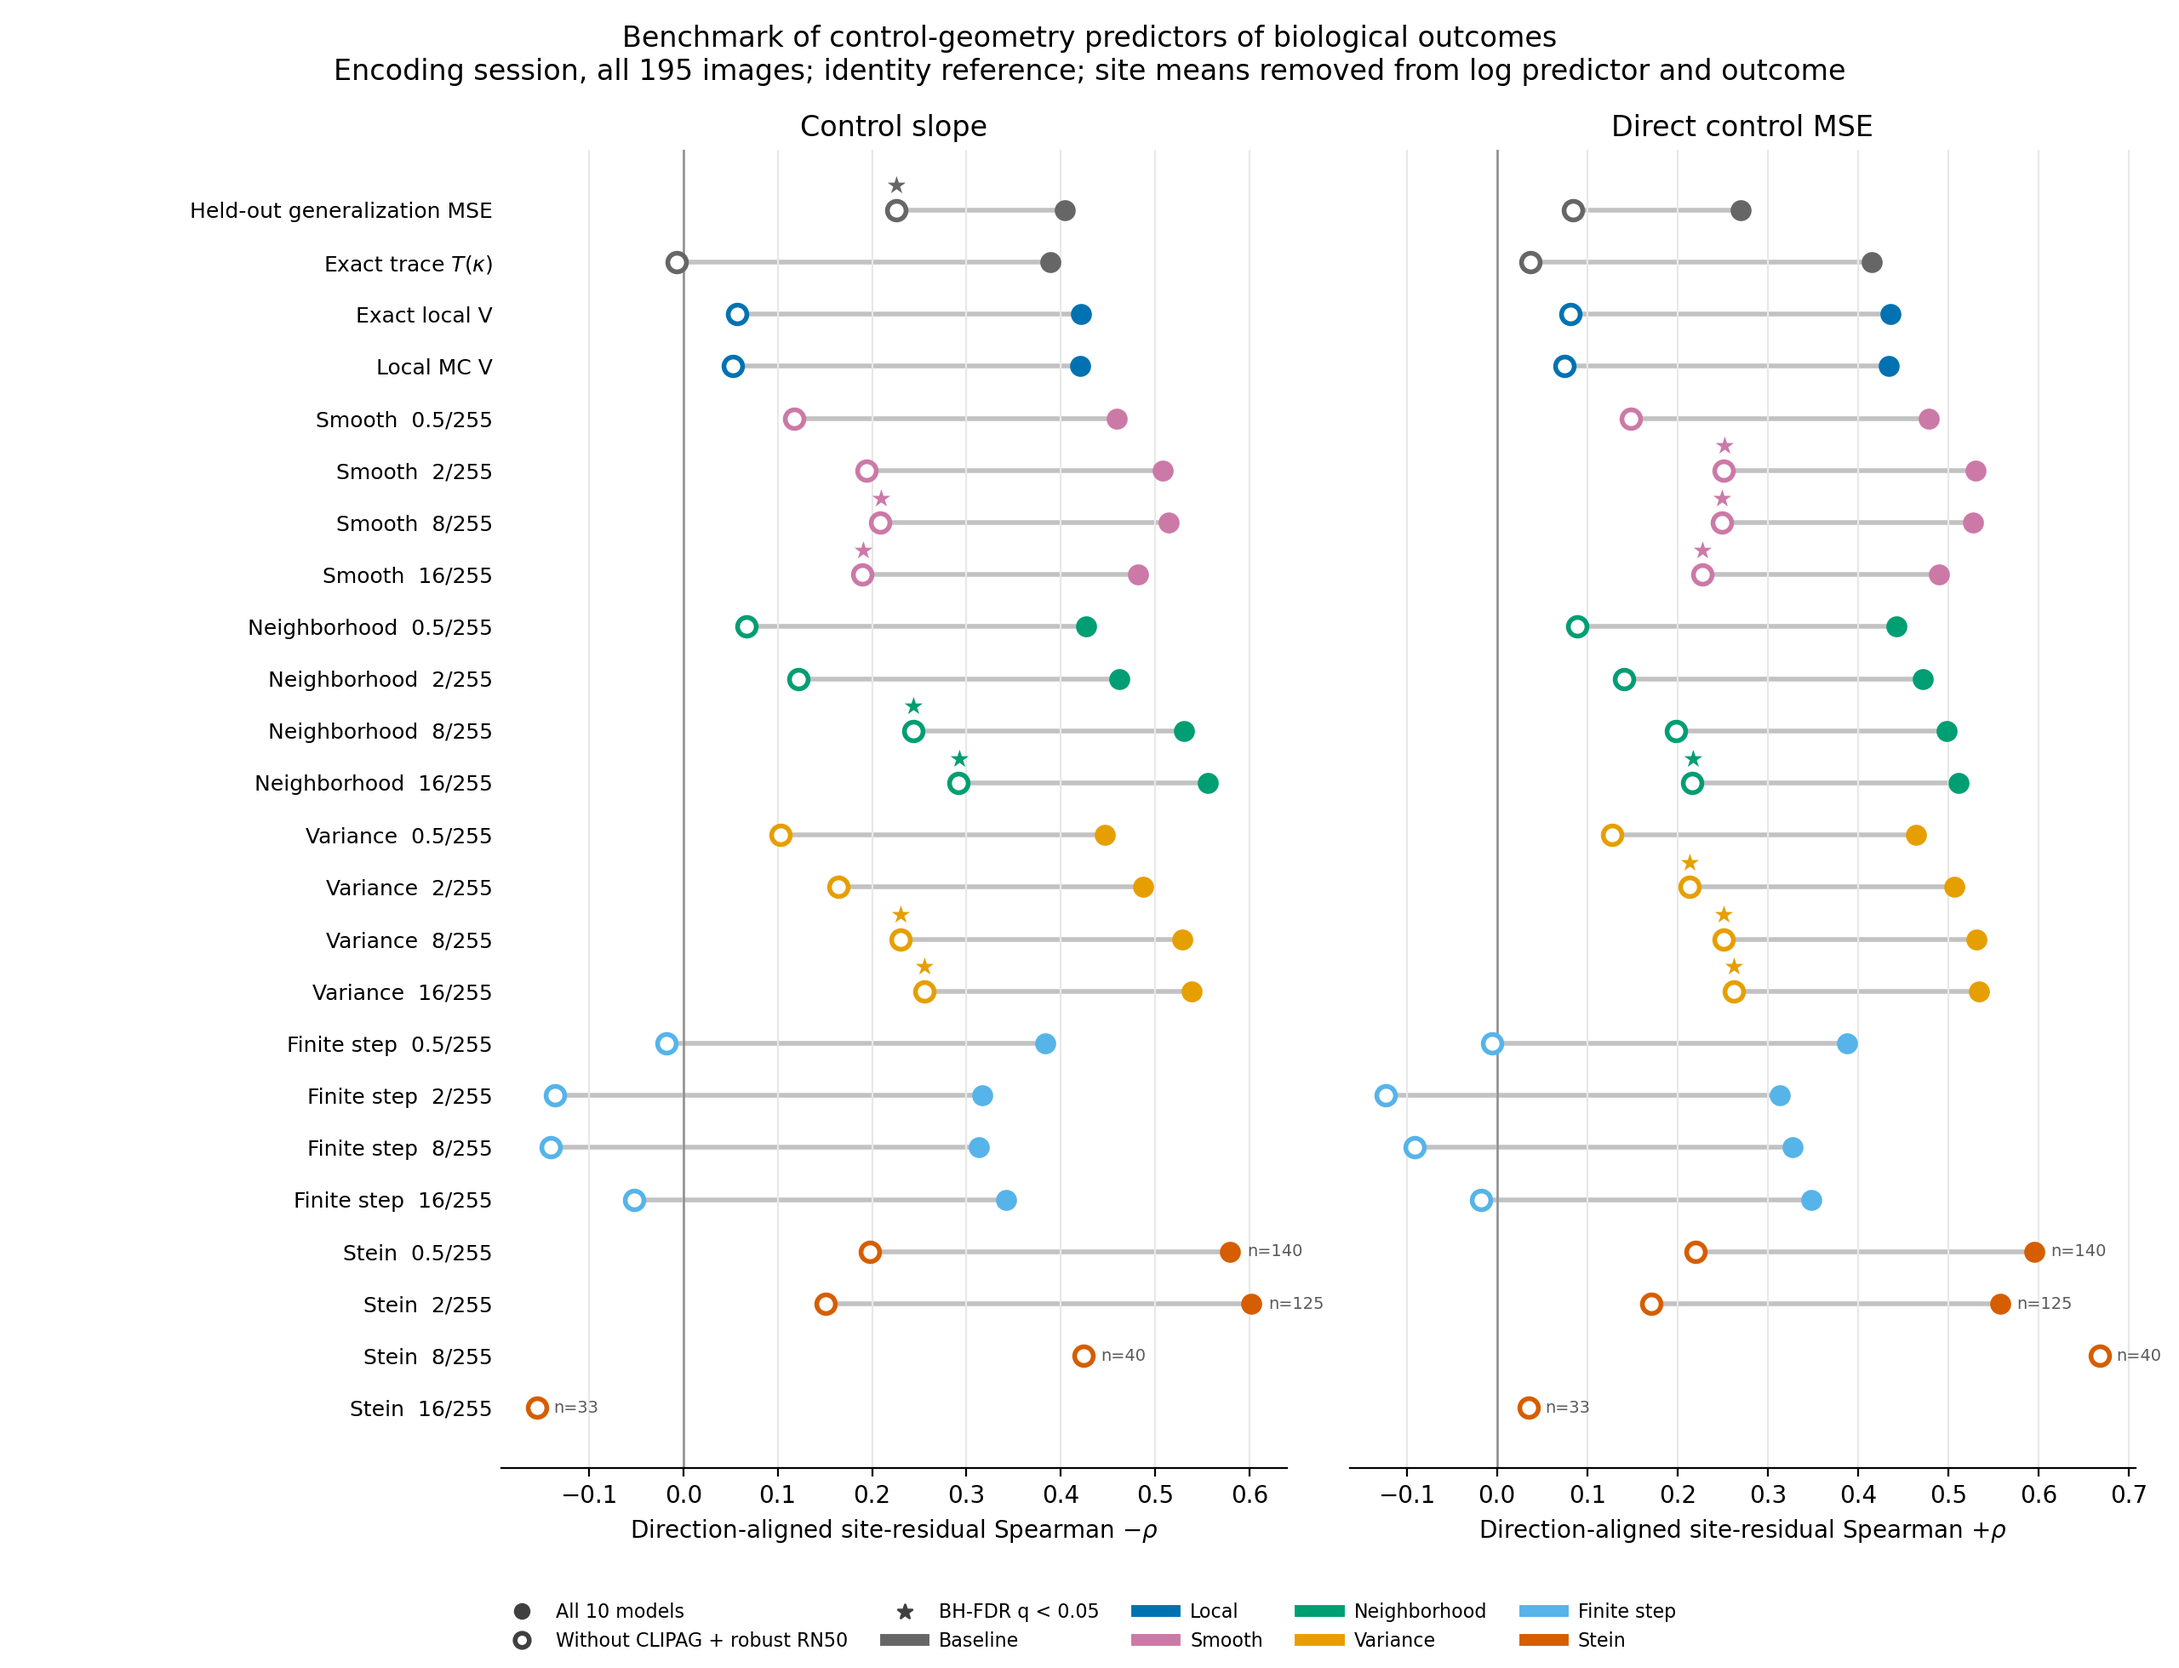
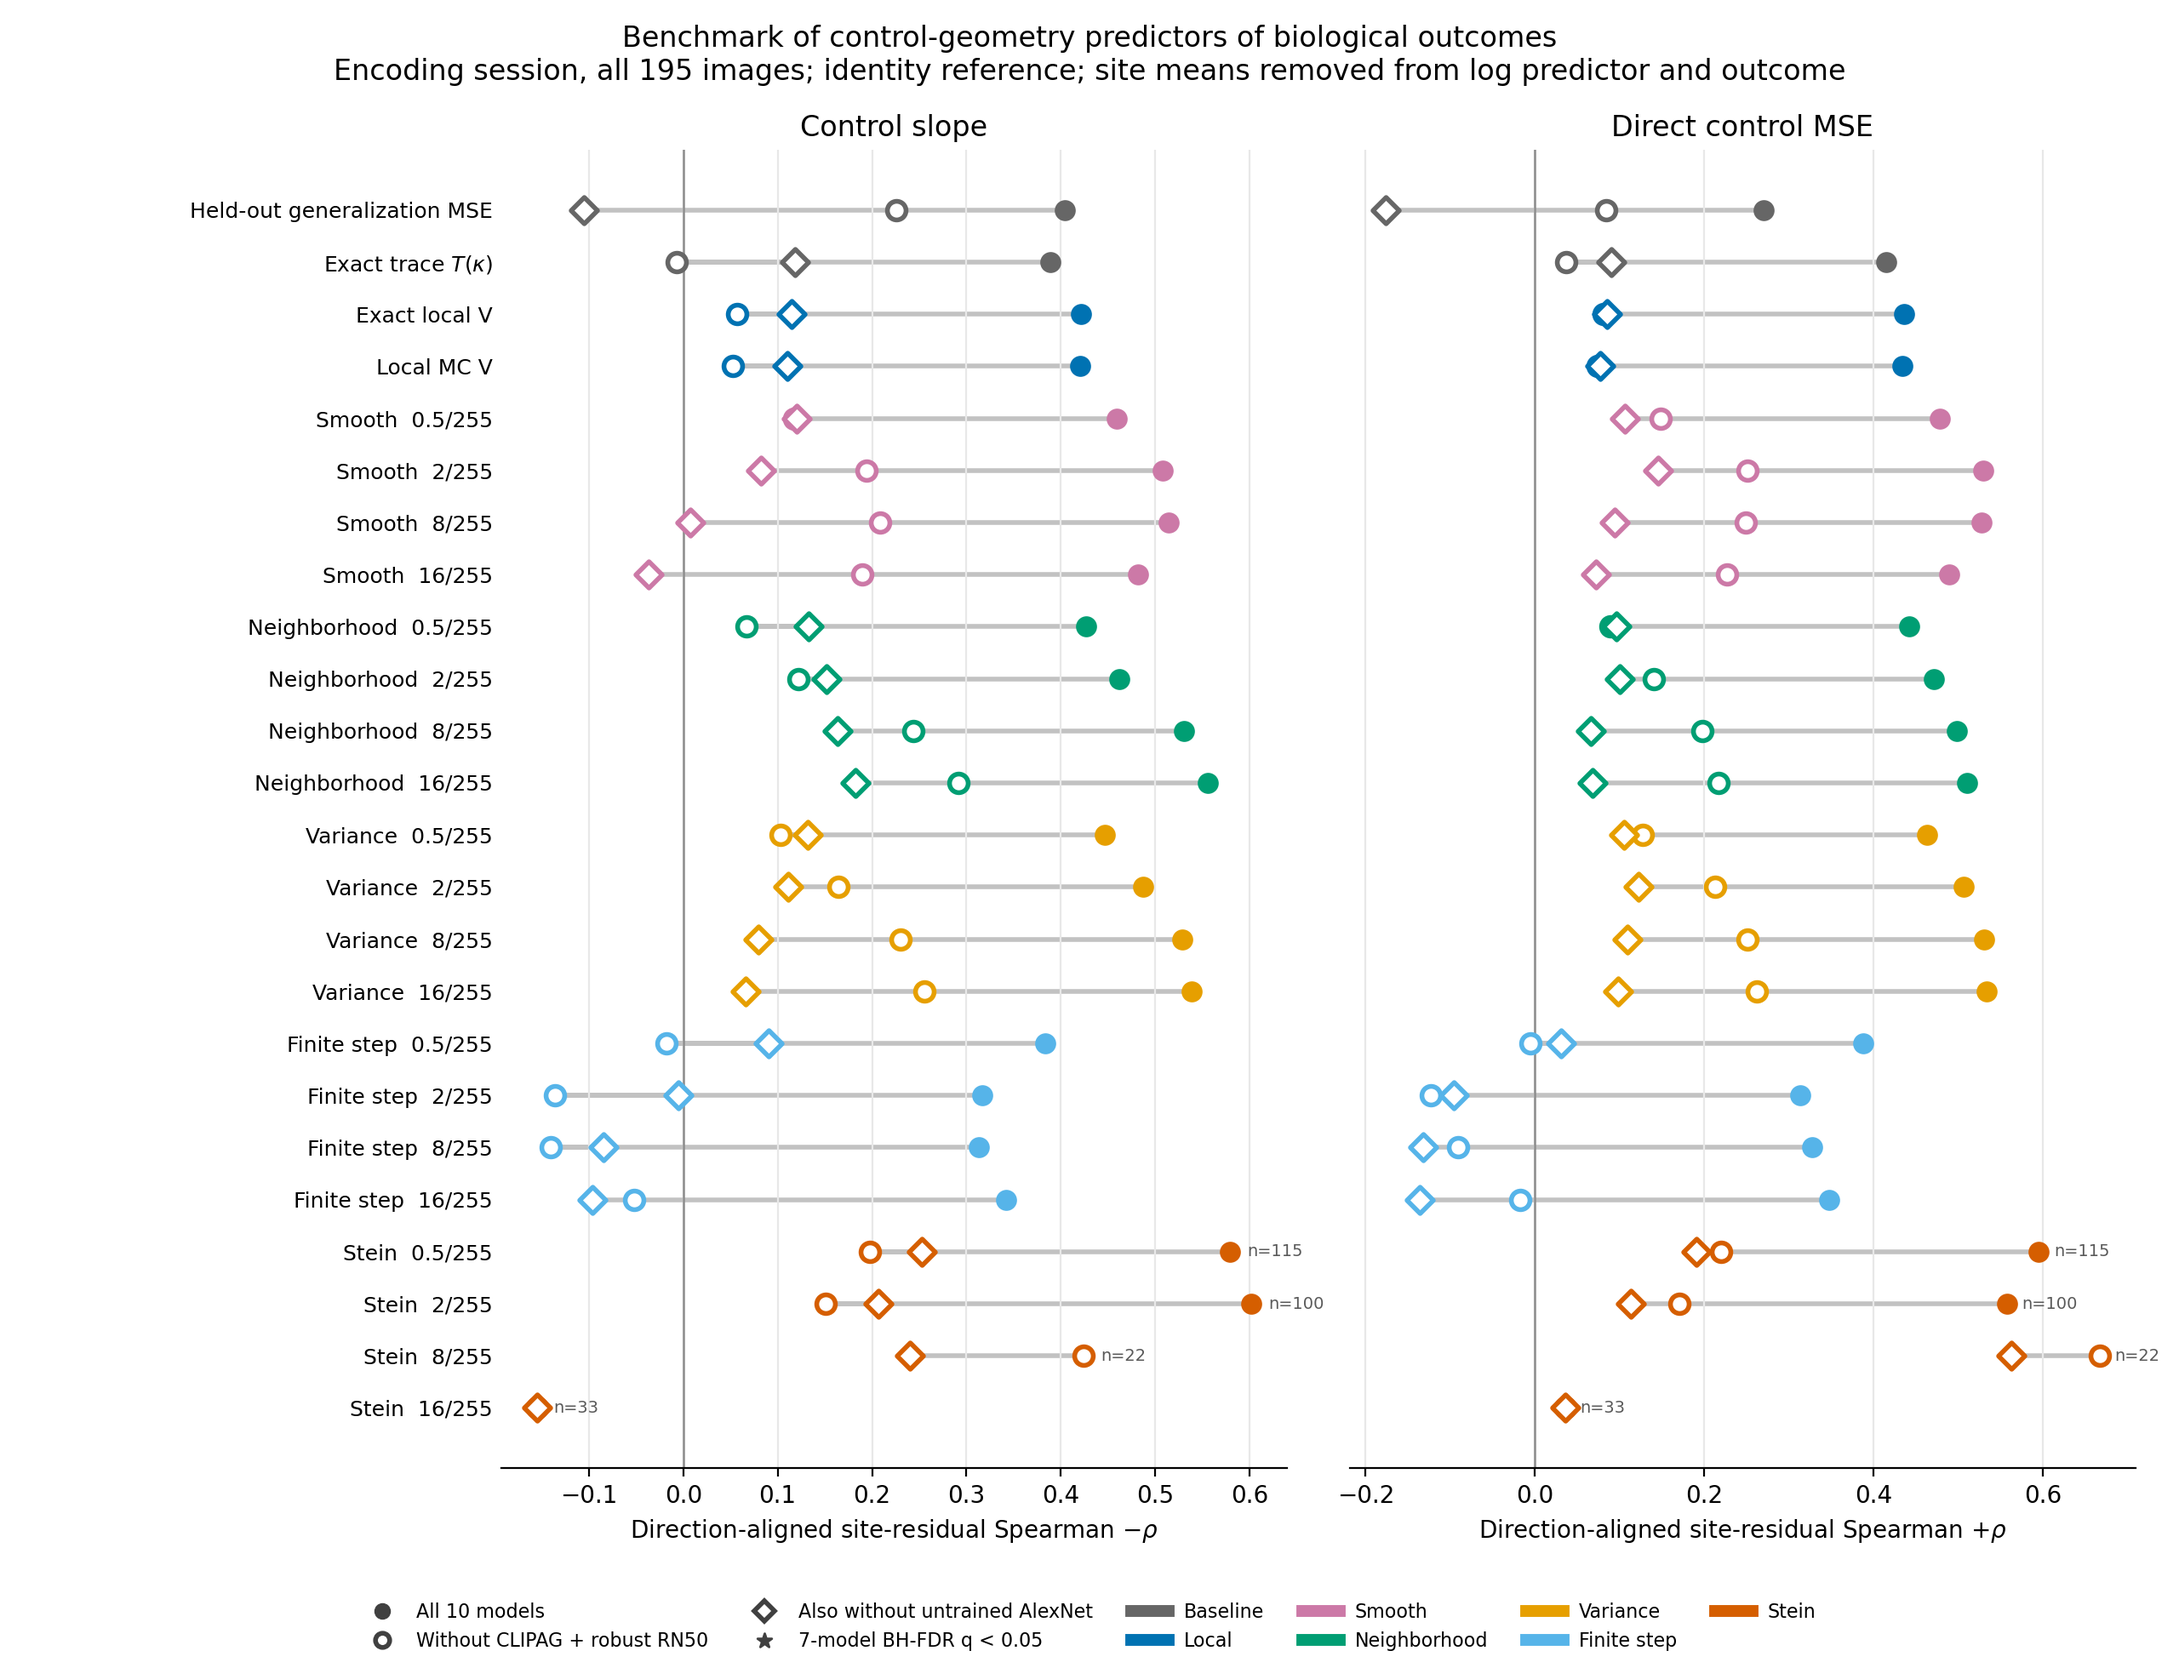
Add seven-model sensitivity to predictor benchmarks

diff --git a/explorations/nonlinear_control/analyze_site_centered_effects.py b/explorations/nonlinear_control/analyze_site_centered_effects.py
@@ -85,7 +85,12 @@ def build_benchmark_table(data):
             suffix='trace_mean' if config.pop('quantity')=='trace' else f'V_{geometry_endpoint}_mean'
             config['predictor']=f"{config.pop('base')}__{suffix}"
             configs.append(config)
-        for subset,d in [('all_models',data),('without_robust',data[~data.robust_model])]:
+        benchmark_subsets=[
+            ('all_models',data),
+            ('without_robust',data[~data.robust_model]),
+            ('without_robust_and_untrained',
+             data[(~data.robust_model)&(data.model!='AlexNet_training_seed_01')])]
+        for subset,d in benchmark_subsets:
             for order,config in enumerate(configs):
                 for outcome_role,outcome,direction in [
                         ('control_slope',spec['slope_outcome'],-1),
@@ -154,19 +159,22 @@ def predictor_benchmark_plot(results,endpoint,filename):
         panel=d[d.outcome_role==outcome]
         for _,row in meta.iterrows():
             pair=panel[panel.predictor_id==row.predictor_id].set_index('subset')
-            if not {'all_models','without_robust'}.issubset(pair.index):
+            required={'all_models','without_robust','without_robust_and_untrained'}
+            if not required.issubset(pair.index):
                 continue
             xa=pair.loc['all_models','direction_aligned_spearman']
-            xc=pair.loc['without_robust','direction_aligned_spearman']
+            xr=pair.loc['without_robust','direction_aligned_spearman']
+            xt=pair.loc['without_robust_and_untrained','direction_aligned_spearman']
             yi=ymap[row.predictor_id];color=METHOD_COLORS[row.group]
-            ax.plot([xa,xc],[yi,yi],color='.76',lw=2,zorder=1)
+            ax.plot([xa,xr,xt],[yi,yi,yi],color='.76',lw=2,zorder=1)
             ax.scatter(xa,yi,s=62,color=color,edgecolor=color,zorder=3)
-            ax.scatter(xc,yi,s=62,facecolor='white',edgecolor=color,lw=2,zorder=4)
-            conventional=pair.loc['without_robust']
+            ax.scatter(xr,yi,s=62,facecolor='white',edgecolor=color,lw=2,zorder=4)
+            ax.scatter(xt,yi,s=62,marker='D',facecolor='white',edgecolor=color,lw=2,zorder=5)
+            conventional=pair.loc['without_robust_and_untrained']
             if conventional.cluster_q_bh < .05:
-                ax.text(xc,yi+.22,'★',color=color,ha='center',va='bottom',fontsize=10)
-            if conventional.n < 200:
-                ax.text(max(xa,xc)+.018,yi,f"n={int(conventional.n)}",color='.35',
+                ax.text(xt,yi+.22,'★',color=color,ha='center',va='bottom',fontsize=10)
+            if conventional.n < 175:
+                ax.text(max(xa,xr,xt)+.018,yi,f"n={int(conventional.n)}",color='.35',
                         va='center',fontsize=7)
         ax.axvline(0,color='.55',lw=.9)
         ax.grid(axis='x',color='.91',lw=.8)
@@ -178,12 +186,14 @@ def predictor_benchmark_plot(results,endpoint,filename):
     handles=[plt.Line2D([],[],marker='o',linestyle='',color='.25',label='All 10 models'),
              plt.Line2D([],[],marker='o',linestyle='',markerfacecolor='white',markeredgewidth=2,
                         color='.25',label='Without CLIPAG + robust RN50'),
-             plt.Line2D([],[],marker='$★$',linestyle='',color='.25',label='BH-FDR q < 0.05')]
+             plt.Line2D([],[],marker='D',linestyle='',markerfacecolor='white',markeredgewidth=2,
+                        color='.25',label='Also without untrained AlexNet'),
+             plt.Line2D([],[],marker='$★$',linestyle='',color='.25',label='7-model BH-FDR q < 0.05')]
     group_handles=[plt.Line2D([],[],color=METHOD_COLORS[g],lw=5,label=l) for g,l in
                    [('baseline','Baseline'),('local','Local'),('smooth','Smooth'),
                     ('neighborhood','Neighborhood'),('variance','Variance'),
                     ('step','Finite step'),('stein','Stein')]]
-    fig.legend(handles=handles+group_handles,ncol=5,loc='lower center',frameon=False,fontsize=8)
+    fig.legend(handles=handles+group_handles,ncol=6,loc='lower center',frameon=False,fontsize=8)
     fig.suptitle('Benchmark of control-geometry predictors of biological outcomes\n'
                  f'{d.endpoint_label.iloc[0]}; site means removed from log predictor and outcome',y=.985)
     fig.subplots_adjust(left=.23,right=.98,top=.91,bottom=.12,wspace=.08)

diff --git a/tables/nonlinear_control/biological_validation/PREDICTOR_BENCHMARK.md b/tables/nonlinear_control/biological_validation/PREDICTOR_BENCHMARK.md
@@ -14,8 +14,10 @@ For every predictor, the analysis first takes `log10`, subtracts the mean of
 the 10 encoding models within each biological site, and subtracts the same site
 mean from the biological outcome. This is a site fixed-intercept comparison of
 models and removes all between-site and between-monkey level differences. The
-filled marker uses all 10 models. The open marker removes CLIPAG and robust
-RN50. Their connecting segment exposes sensitivity to those two model families.
+filled circle uses all 10 models. The open circle removes CLIPAG and robust
+RN50. The open diamond additionally removes the untrained AlexNet, leaving the
+seven conventionally trained models. Their connecting segment exposes
+sensitivity to these three model-family outliers.
 
 Each endpoint benchmark contains 24 predictors:
 
@@ -29,13 +31,13 @@ The figures show Spearman correlation because model rankings are the primary
 question and the predictors span very different scales. The CSV also stores
 Pearson correlation and a linear standardized coefficient with site-clustered
 standard error. Stars mark Benjamini-Hochberg q < 0.05 for that clustered
-linear coefficient within each endpoint, outcome and model subset. They do not
-represent a clustered significance test of Spearman correlation.
+linear coefficient in the strict seven-model subset. They do not represent a
+clustered significance test of Spearman correlation.
 
 The Stein estimates at large noise can be zero or negative and therefore
 cannot enter the log analysis. Their actual effective sample sizes are printed
 next to the markers. These small-n correlations are unstable and should not be
-ranked directly against the 200-row conventional-model estimates.
+ranked directly against the full-coverage subset estimates.
 
 `site_centered_predictor_benchmark_control_session.png` is the calibrated
 default. `site_centered_predictor_benchmark_control_session_identity_reference.png`

diff --git a/tables/nonlinear_control/biological_validation/SYNOPSIS.md b/tables/nonlinear_control/biological_validation/SYNOPSIS.md
@@ -112,8 +112,9 @@ control-MSE computation/scatter separately.
 fixed benchmark of 24 predictors: held-out generalization MSE, exact trace,
 exact/local-MC V, and four noise levels for smooth, neighborhood, variance,
 finite-step and Stein V. It stores both raw and direction-aligned Pearson and
-Spearman correlations for all ten models and after removing CLIPAG and robust
-RN50. Direction alignment multiplies slope correlations by -1 and leaves MSE
+Spearman correlations for all ten models, after removing CLIPAG and robust
+RN50, and after additionally removing the untrained AlexNet. Direction
+alignment multiplies slope correlations by -1 and leaves MSE
 correlations unchanged, so positive values consistently mean that a larger
 predicted control-error term accompanies worse biological control. The
 clustered regression p value and within-panel Benjamini-Hochberg q value refer
